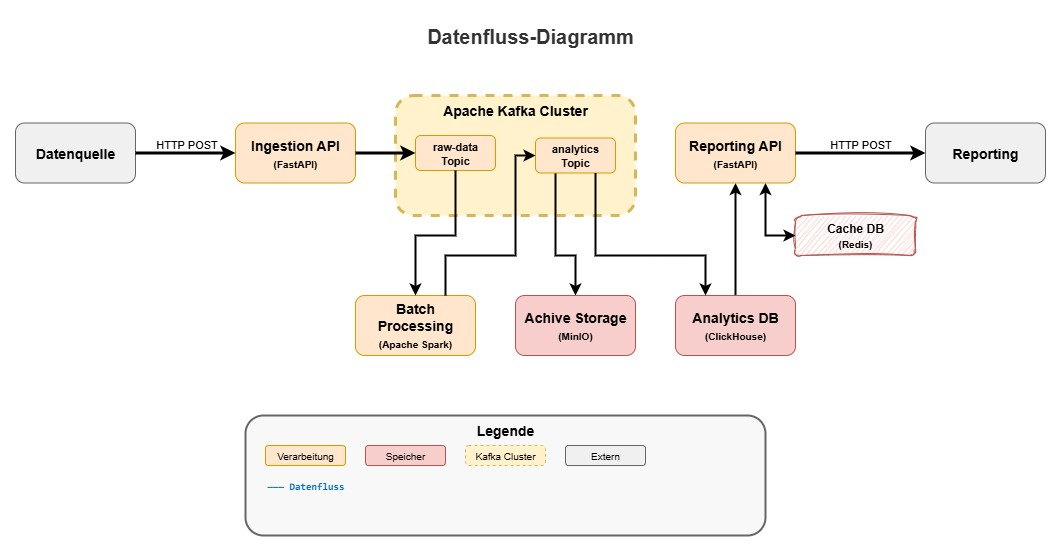
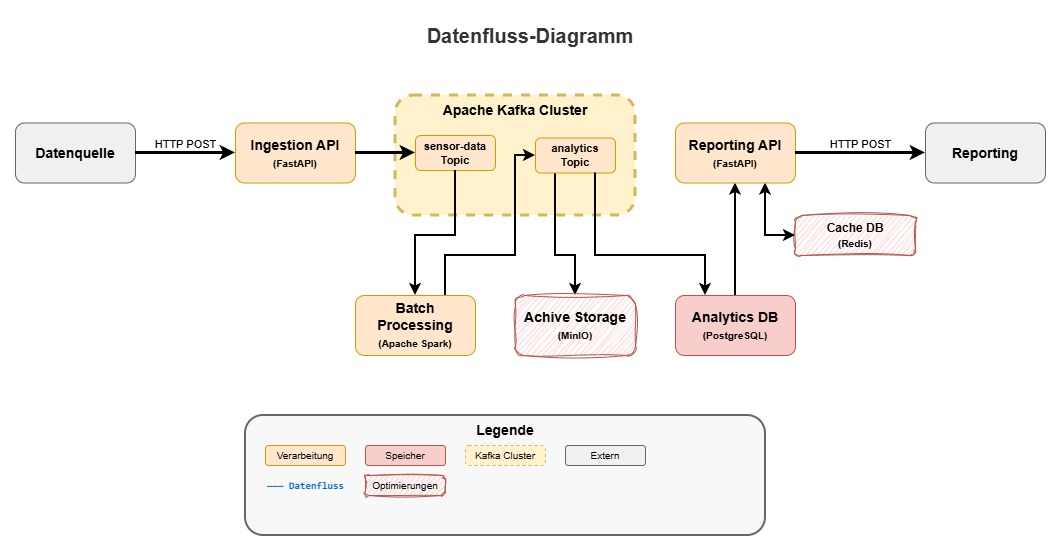
Update der Schaubilder

diff --git a/README.md b/README.md
@@ -66,7 +66,7 @@ Kafka fungiert als zentraler Message-Broker, der die Microservices entkoppelt. D
 Die Verarbeitung erfolgt im Batch‑Modus. Die Rohdaten werden aus Apache Kafka gelesen, verarbeitet und aggregiert. Für die Aggregation wird der Mittelwert verwendet, da dieser das Messungenauigkeit reduziert und eine aussagekräftige Zusammenfassung kontinuierlicher Sensorwerte liefert. Als Windowing-Funktion werden Tumbling-Windows eingesetzt, dabei werden feste nicht überlappende Zeitfenster mit einer Zeitspanne von 10 Sekunden definiert. Das Vorgehen reduziert die Komplexität der Zustandsverwaltung und sorgt für reproduzierbare und vorhersehbare Antwort-zeiten bei der Auslieferung der Resultate. Die erzeugten Analyseergebnisse werden in einem separaten Kafka‑Topic Analytics-Data zurückgeschrieben, um eine entkoppelte Weiterverarbeitung und einfachen Konsum zu ermöglichen. Zur Umsetzung wird Apache Spark verwendet. Apache Spark ist eine für große Datenmengen optimierte Engine, welche problemlos in die bestehende Infrastruktur eingefügt werden kann. Die Verarbeitung ist auf Performance ausgelegt, sodass aggregierte Ergebnisse zeitnah für nachgelagerte Komponenten bereitgestellt werden.
 Die Daten werden zur Einhaltung der Data‑Governance und für Langzeitanalysen archiviert. Die analysierten Daten werden von Kafka über einen dedizierten Kafka‑Connector in MinIO abgelegt. MinIO ist S3‑kompatibel, was die Integration in das System und eine mögliche Migration zu einem AWS S3-Storage erleichtert. Für interaktive Reports ist ein Datenarchiv jedoch nicht optimal. Deshalb wird eine speziell für Online Analytical Processing (OLAP) ausgelegte Analytics‑Datenbank (ClickHouse) über einen separaten Kafka‑Connector befüllt, sodass analytische Abfragen auf großen Datenmengen performant ausgeführt werden können. Die Reporting‑API verarbeitet die Anfragen der Reporting-Applikation und fragt die Daten bei ClickHouse ab. Zusätzlich wird durch ein Redis‑Cache die Antwortzeiten bei häufigen Abfragen reduziert.
 
-![Kubernetes-Architektur](doku/K8s-Architektur.jpg)
+![Kubernetes-Architektur](doku/K8s-Ressourcen.jpg)
 
 In dieser Abbildung wird die Architektur innerhalb von K8s veranschaulicht. Wie zu sehen ist, werden die verschieden Microservices als einzelne Pods realisiert. Zusätzlich werden die einzelnen Aufgabengebiete zu Namespaces zusammengefasst. Durch strenge Isolationsrichtlinien innerhalb des Clusters wird der Datenschutz gestärkt. Zudem gibt es nur zwei dedizierte APIs, welche mit externen Systemen kommunizieren können. Das innere des Systems ist somit abgeschottet. Die Datensicherheit kann durch verschiedene Faktoren sichergestellt werden zum einen kann die externe Kommunikation über den K8s-Ingress und die API auf https beschränkt werden und eine Authentifizierungsmöglichkeit bereitgestellt werden. Zum anderen kann innerhalb des Clusters in Kafka eine SSL/TSL- oder auch eine SASL-Verschlüsselung konfiguriert werden, hierdurch wird die interne Kommunikation zwischen den Pods und Kafka abgesichert.
 Desweitern wird ein Monitoring durch Prometheus und Grafana eingeplant. Prometheus sammelt Metriken der kritischen K8s-Pods. Diese können durch Grafana dargestellt werden. Durch das Monitoring werden die Zustände der Pods sichtbar. Dabei können verschiedene Kennzahlen von Prometheus erfasst werden, unter anderem die Auslastung des Pods. Durch das Monitoring lässt sich die Einhaltung von Governance‑Anforderungen überprüfen. Auffälligkeiten werden so schneller erkannt, um Gegenmaßnahmen zu ermöglichen. Zudem lässt sich das Monitoring bei Bedarf auch durch ein Alerting erweitern welches beispielsweise eine Bereitschaft benachrichtigt.
